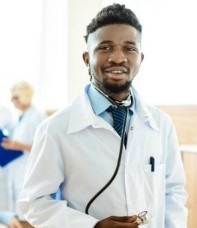
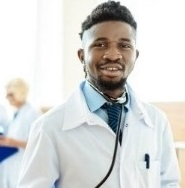
upd photo

diff --git a/src/main/resources/templates/index.html b/src/main/resources/templates/index.html
@@ -35,11 +35,11 @@
 
             <div class="best-stuff">
                 <img class="stuff-photo"
-                     src="https://lh3.googleusercontent.com/pw/ACtC-3cLAVribViBvvOU-LTKDg49BXmZJgU8P_sTwk3ANi2l1Y8t7VxK3VJFbdhEzQV9nwv8vQeP3rfC6lFPx9zGdlCG6CtihEFFE9G-u4gJCp-8rkGf0L5oxFpFwoT6ZPcCyHvGalp6f8B23HL1VpTFzNo=w306-h294-no?authuser=0">
+                     src="https://c.radikal.ru/c00/2102/5f/b9a997c4f68b.jpg">
                 <img class="stuff-photo"
-                     src="https://lh3.googleusercontent.com/pw/ACtC-3dimS7aTkZqs9PNdwY-YZhjCALJrBOPUG4baKj0OkDcPwQYnffeOx0GRFlcFgJOF8zF2y0zr--Lob818Q3Zwr2UEybnTGh1prVTCsZyLwo5676OwmnPpADFUjVF2yaGxLOKlwe0s_FgH9dj9p0eNEM=w354-h326-no?authuser=0">
+                     src="https://c.radikal.ru/c22/2102/31/dccaa4a8a3f5.jpg">
                 <img class="stuff-photo"
-                     src="https://lh3.googleusercontent.com/pw/ACtC-3dGWJ8ybzDntnQIEX-ypoWL01cEg9_jB8l5OgxcNy11bWRZLTooJ-wrHQyZt16VrC07R8NrXGPkzHsba9Uq4KLBCwFVzov6wzWgMHYRbJJys0yFXwb66vU4fImVFCmAsR93Yf6T4mbEsxn7ixO8p7c=w197-h228-no?authuser=0">
+                     src="https://d.radikal.ru/d23/2102/c7/c939f2b0d585.jpg">
             </div>
         </div>
 
